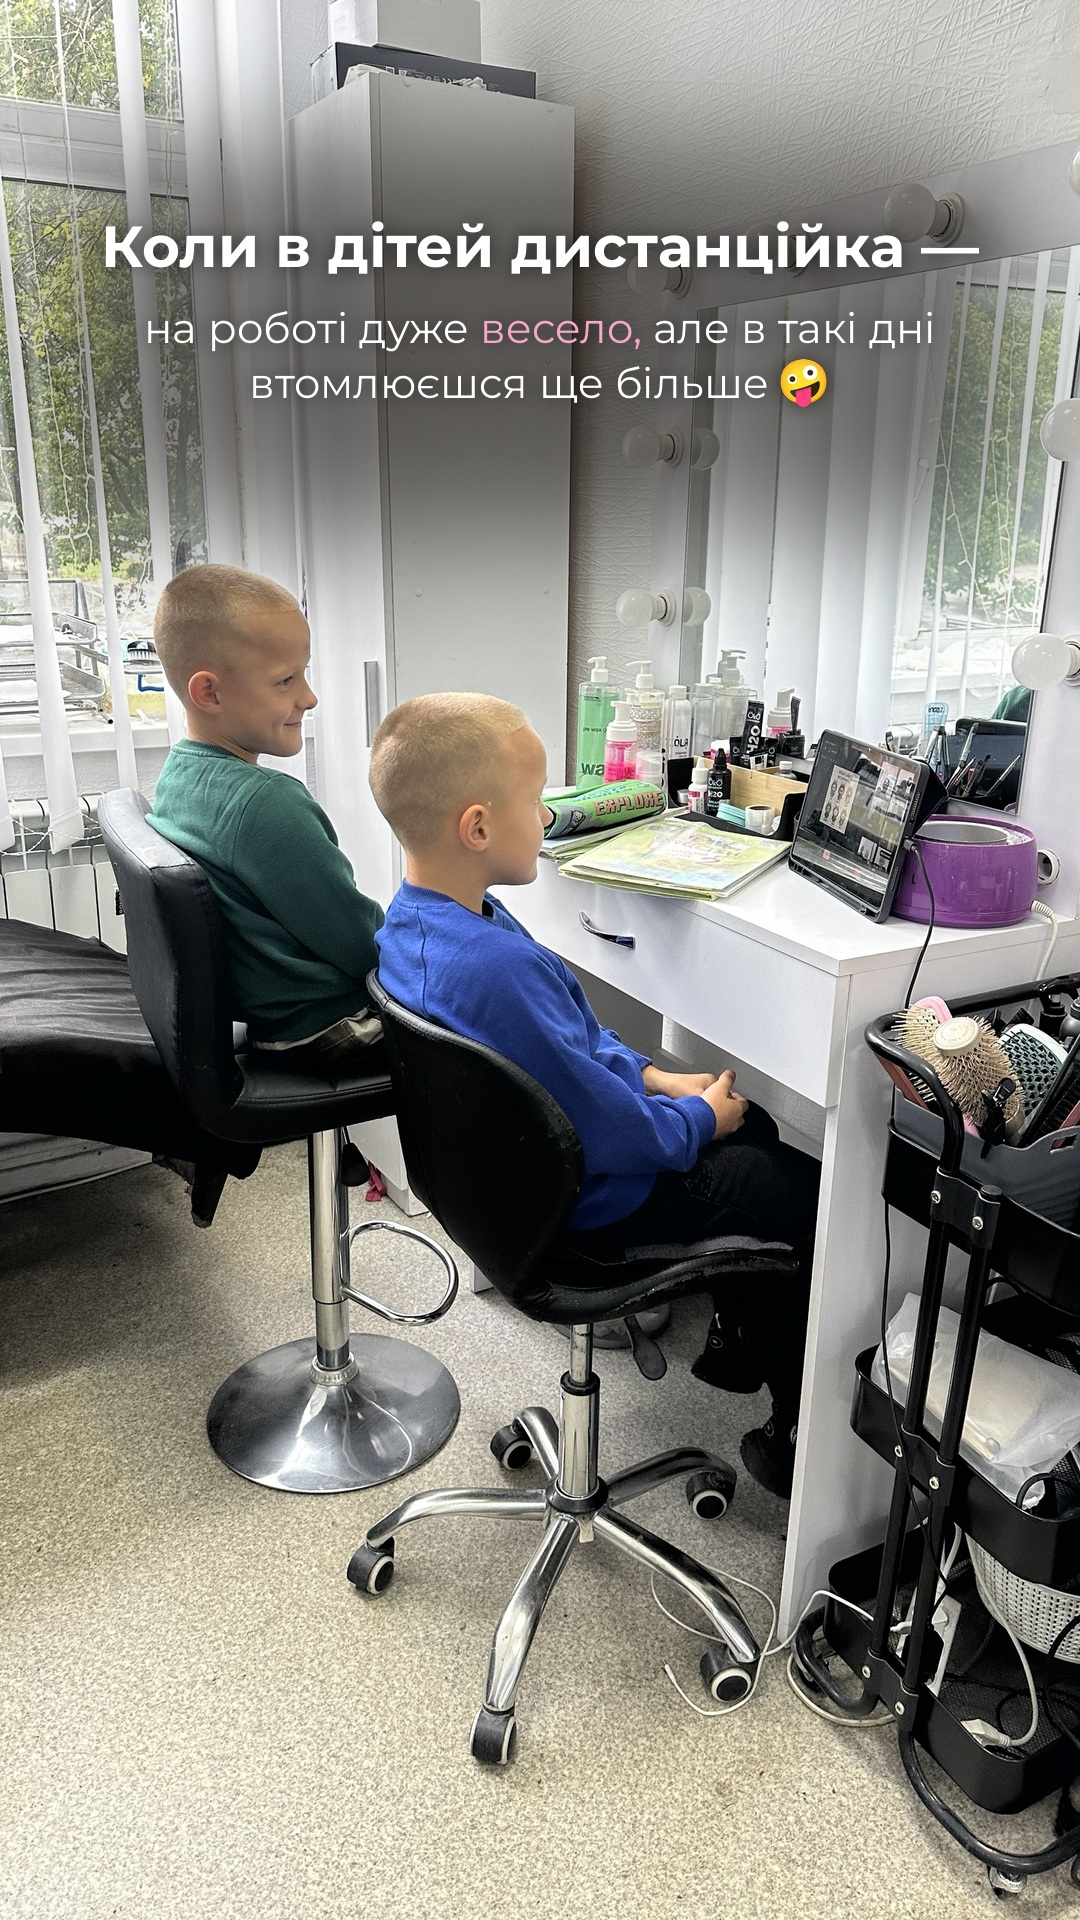
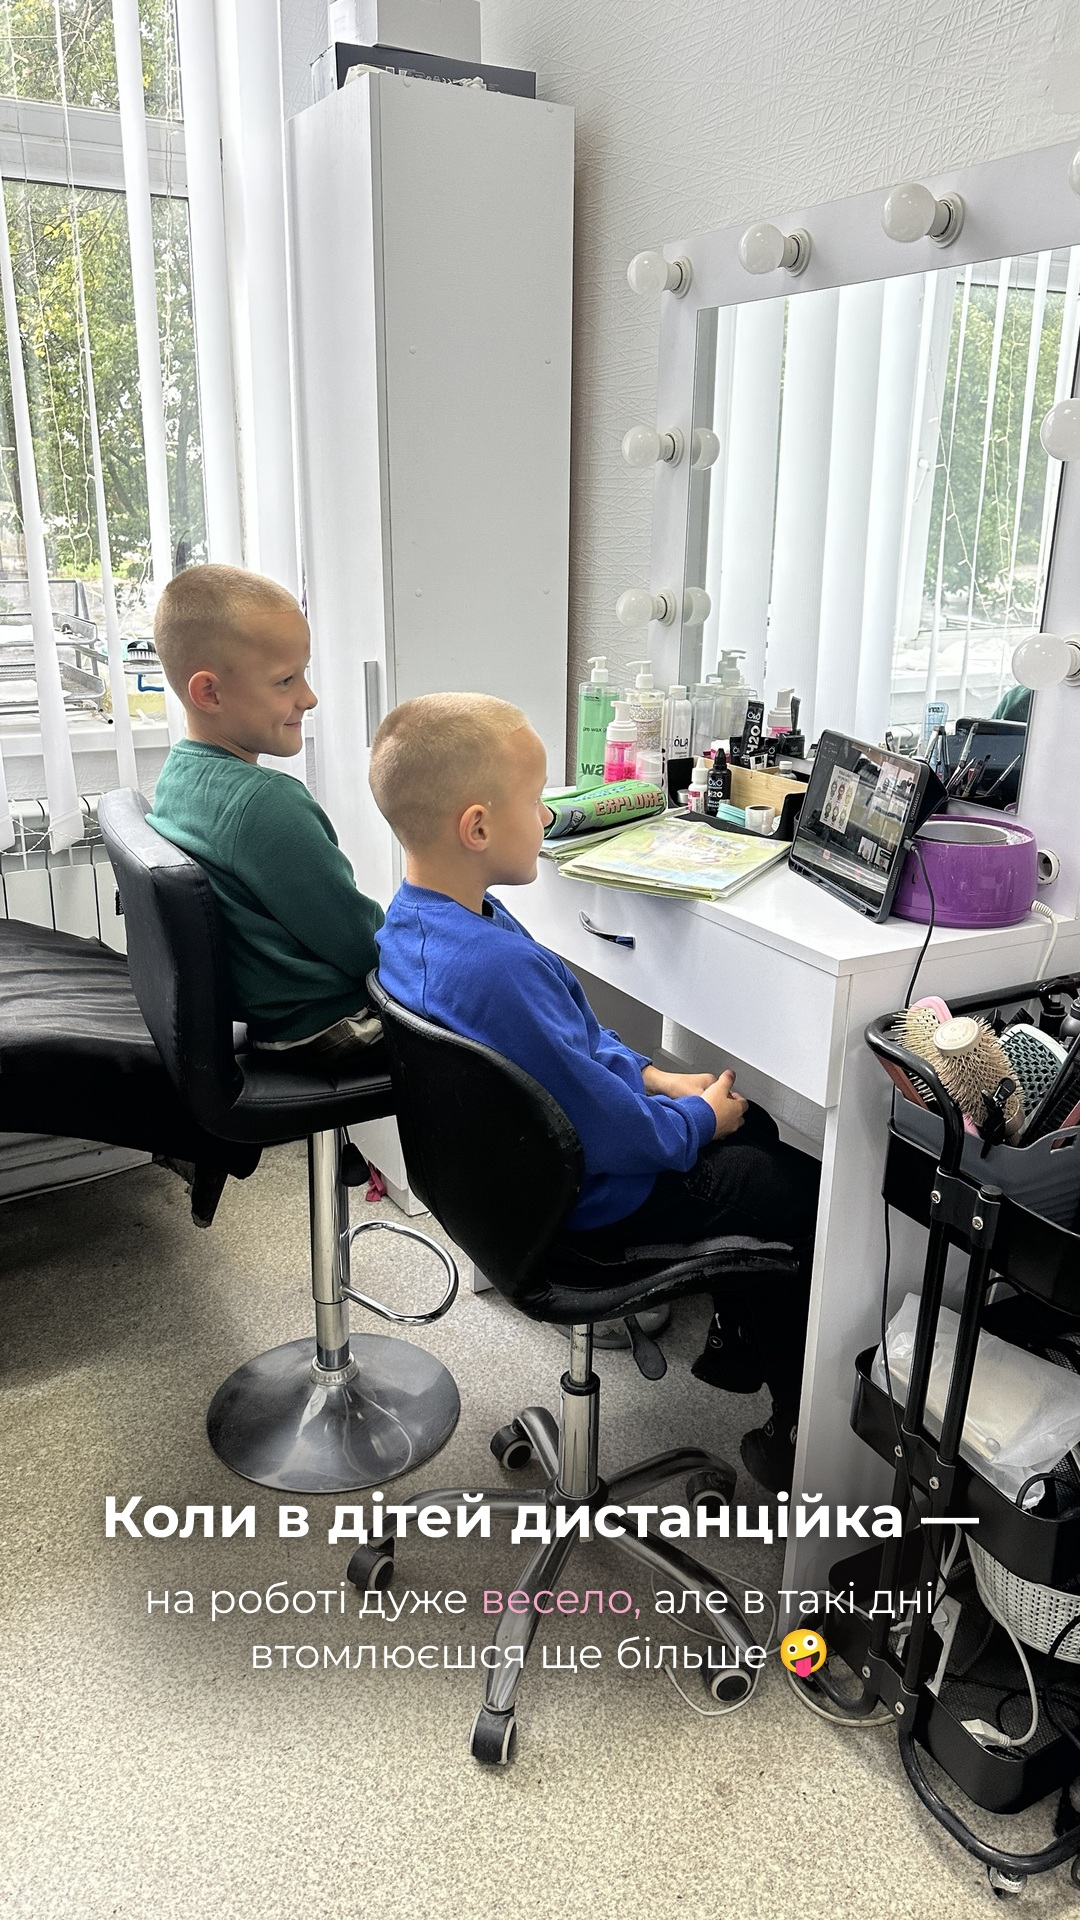
Remote-school story: text in lower half, lighter shade
Claude-Session: https://claude.ai/code/session_0191xVL2hi5vHUvM1ix6pauC

diff --git a/stories/dystantsiyka/build.py b/stories/dystantsiyka/build.py
@@ -2,7 +2,8 @@ import sys
 S,R=sys.argv[1:3]
 exec(open(f'{S}/dd.py').read().split('# 1\n')[0])
 OUT=f'{R}/stories/dystantsiyka'
-im,_=ctext(fit(f'{U}/737e31b8-image.jpg'),210,'Коли в дітей дистанційка —','на роботі дуже *весело*, але в такі дні втомлюєшся ще більше','🤪',shade=150)
+b1=fit(f'{U}/737e31b8-image.jpg'); g=Image.new('L',(W,H),0); ImageDraw.Draw(g).rounded_rectangle((110,1430,970,1690),radius=110,fill=120); g=g.filter(ImageFilter.GaussianBlur(45)); b1=Image.composite(Image.new('RGB',(W,H),(22,17,15)),b1,g)
+im,_=ctext(b1,1480,'Коли в дітей дистанційка —','на роботі дуже *весело*, але в такі дні втомлюєшся ще більше','🤪',shade=0)
 im.save(f'{OUT}/1.jpg',quality=94); print('ok')
 from PIL import ImageEnhance
 b2=ImageEnhance.Brightness(fit(f'{U}/5fcc6068-image.jpg')).enhance(0.6)
